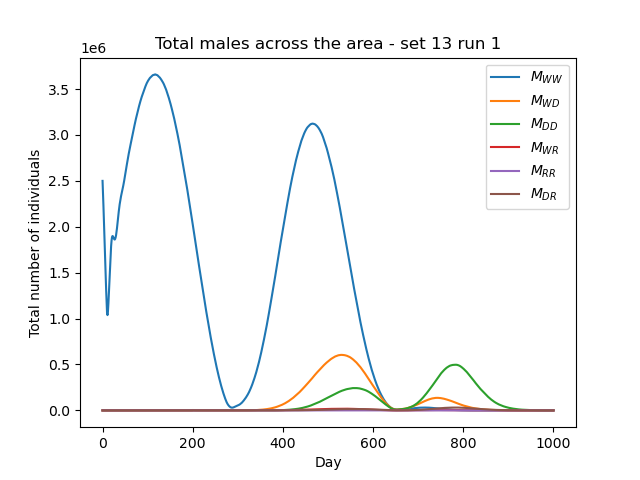
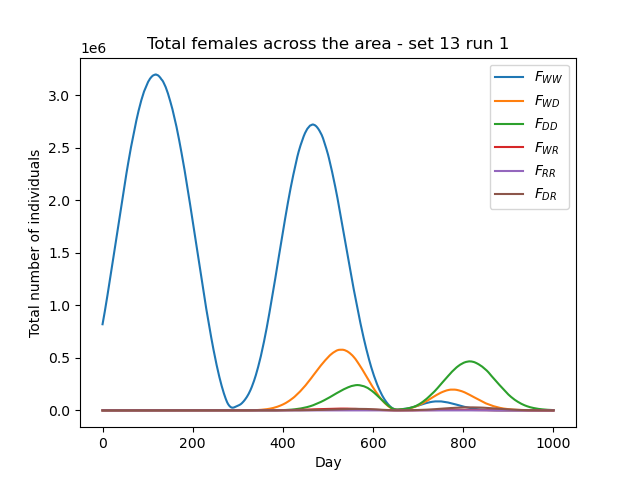
Update docs and plotting script with change to females
For change of males to mated females in local and total output files. Updated plots animations, output file screenshots and any reference to males in output files in docs

diff --git a/test/GeneralMetapopPlots.py b/test/GeneralMetapopPlots.py
@@ -5,23 +5,24 @@ import matplotlib.animation as animation
 import matplotlib.colors as mcolors
 
 #%% Plot global output (totals) from model
-os.chdir("C:\\Users\\biol0117\\OneDrive - Nexus365\\Documents\\Programming projects\\C++ Model\\GeneralMetapop\\test\\oracle\\toroid_distance_kernel\\set2")
+#os.chdir("C:\\Users\\biol0117\\OneDrive - Nexus365\\Documents\\Programming projects\\C++ Model\\GeneralMetapop\\build\\output_files\\")
+os.chdir("C:\\Users\\biol0117\\OneDrive - Nexus365\\Documents\\Programming projects\\C++ Model\\GeneralMetapop\\test\\oracle\\toroid_distance_kernel\\set13\\")
 
-totals = np.loadtxt("Totals2run1.txt", skiprows=2, ndmin=2)
+totals = np.loadtxt("Totals13run1.txt", skiprows=2, ndmin=2)
 
 times = totals[:, 0]
-total_males = totals[:, 1:]
+total_females = totals[:, 1:]
 
 plt.figure()
-plt.title("Total males across the area - set 17 run 1")
+plt.title("Total females across the area - set 13 run 1")
 plt.xlabel("Day")
 plt.ylabel("Total number of individuals")
-plt.plot(times, total_males[:, 0], label="$M_{WW}$")
-plt.plot(times, total_males[:, 1], label="$M_{WD}$")
-plt.plot(times, total_males[:, 2], label="$M_{DD}$")
-plt.plot(times, total_males[:, 3], label="$M_{WR}$")
-plt.plot(times, total_males[:, 4], label="$M_{RR}$")
-plt.plot(times, total_males[:, 5], label="$M_{DR}$")
+plt.plot(times, total_females[:, 0], label="$F_{WW}$")
+plt.plot(times, total_females[:, 1], label="$F_{WD}$")
+plt.plot(times, total_females[:, 2], label="$F_{DD}$")
+plt.plot(times, total_females[:, 3], label="$F_{WR}$")
+plt.plot(times, total_females[:, 4], label="$F_{RR}$")
+plt.plot(times, total_females[:, 5], label="$F_{DR}$")
 plt.legend()
 
 #%% Plot coordinates of patches
@@ -83,13 +84,13 @@ ax.set_ylabel("y (km)")
 fig, ax = plt.subplots()
 
 # get coords of sites
-os.chdir("C:\\Users\\biol0117\\OneDrive - Nexus365\\Documents\\Programming projects\\C++ Model\\GeneralMetapop\\test\\oracle\\toroid_distance_kernel\\set2")
-coords = np.loadtxt("CoordinateList2run1.txt", skiprows=2, ndmin=2)
+os.chdir("C:\\Users\\biol0117\\OneDrive - Nexus365\\Documents\\Programming projects\\C++ Model\\GeneralMetapop\\build\\output_files")
+coords = np.loadtxt("CoordinateList100run1.txt", skiprows=2, ndmin=2)
 x = coords[:, 1]
 y = coords[:, 2]
 
 # get populations
-local_data = np.loadtxt("LocalData2run1.txt", skiprows=2, ndmin=2)
+local_data = np.loadtxt("LocalData100run1.txt", skiprows=2, ndmin=2)
 
 # get populations on one day
 t=0 # recorded timestep
@@ -196,12 +197,12 @@ fig, ax = plt.subplots()
 # get coords of sites
 os.chdir("C:\\Users\\biol0117\\OneDrive - Nexus365\\Documents\\Programming projects\\C++ Model\\GeneralMetapop\\build\\output_files")
 #os.chdir("C:\\Users\\biol0117\\OneDrive - Nexus365\\Documents\\Programming projects\\C++ Model\\GeneralMetapop\\test\\oracle\\toroid_distance_kernel\\set10")
-coords = np.loadtxt("CoordinateList1run1.txt", skiprows=2, ndmin=2)
+coords = np.loadtxt("CoordinateList101run1.txt", skiprows=2, ndmin=2)
 x = coords[:, 1]
 y = coords[:, 2]
 
 # get populations per genotype
-local_data = np.loadtxt("LocalData1run1.txt", skiprows=2, ndmin=2)
+local_data = np.loadtxt("LocalData101run1.txt", skiprows=2, ndmin=2)
 t=0 # recorded timestep
 sim_day = int(local_data[t*len(x), 0])
 local_data_day0 = local_data[t*len(x):((t+1)*len(x)), 2:8]

diff --git a/docs/user_guide/output.rst b/docs/user_guide/output.rst
@@ -30,13 +30,15 @@ The second and third columns contain the `x` and `y` coordinates respectively.
 Totals file
 -----------
 
-The totals file records the total number of adult male mosquitoes over all sites for each day of the simulation. These are divided into the different genotypes available. By default, the program uses 6 genotypes (more information in the :doc:`defaults` section).
+The totals file records the total number of adult mated female mosquitoes over all sites for each day of the simulation. These are divided into the different female genotypes available. By default, the program uses 6 genotypes (more information in the :doc:`defaults` section).
 
-The first column denotes the simulation day, where day 0 is the initialisation day. The following columns denote the number of males of each genotype, where W is a wild-type allele, D is a drive-type allele and R is a non-functional resistance allele. 
+The first column denotes the simulation day, where day 0 is the initialisation day. The following columns denote the number of females of each genotype, where W is a wild-type allele, D is a drive-type allele and R is a non-functional resistance allele. 
 
 .. note::
-    During the initialisation day, sites are populated with some initial populations and gene drive mosquitoes may be released, but mosquitoes don't carry out their life processes or disperse. This is to set a baseline for the model. Mosquito numbers are always recorded as the very last step of the simulation day.
+    During the initialisation day, sites are populated with some initial populations and mosquitoes don't carry out their life processes or disperse. This is to set a baseline for the model. Mosquito numbers are always recorded as the very last step of the simulation day.
 
+.. note::
+    The model will simulate a burn-in period of 365 days before recording any data so that the modelled mosquito populations can reach an equilibrium before other modelled behaviours, such as gene drive release, are introduced. This is all done implicitly before recording starts. 
 
 .. image:: ../images/output_totals.png
     :scale: 80 %
@@ -46,9 +48,9 @@ The first column denotes the simulation day, where day 0 is the initialisation d
 Local data file
 ---------------
 
-Similarly to the totals file, the local data file records the number of adult male mosquitoes for each day of the simulation, but this is split by each site. This provides a more in-depth view of the population evolution at each site. The male population numbers are also divided by genotype. 
+Similarly to the totals file, the local data file records the number of adult mated female mosquitoes for each day of the simulation, but this is split by each site. This provides a more in-depth view of the population evolution at each site. The female population numbers are also divided by genotype. 
 
-The first column again denotes the simulation day, the second column denotes the site index (as seen in :ref:`coords_output_file`) and the following columns denote the number of males of each genotype (as seen in :ref:`totals_file`).
+The first column again denotes the simulation day, the second column denotes the site index (as seen in :ref:`coords_output_file`) and the following columns denote the number of females of each genotype (as seen in :ref:`totals_file`).
 
 .. image:: ../images/output_local.png
     :scale: 80 %

diff --git a/docs/tutorials/tutorial1.rst b/docs/tutorials/tutorial1.rst
@@ -48,8 +48,8 @@ Looking at the output data
 The program run will have created a new subdirectory in our ``build`` directory called ``output_files``. This contains all the output files generated by the program. There are text files of three types:
 
 - ``CoordinateList.txt``: contains the (x, y) coordinates of all the patches in the simulation (in our set 1 we used ``num_pat`` = 50).
-- ``Totals.txt``: contains the total adult male mosquito numbers across all patches as simulation time passes. These are divided into the different genotypes available (more information on genotypes in Tutorial :ref:`tutorial-3.2`).
-- ``LocalData.txt``: contains the adult male mosquito numbers, divided by genotype, at each patch over time.
+- ``Totals.txt``: contains the total adult mated female mosquito numbers across all patches as simulation time passes. These are divided into the different genotypes available (more information on genotypes in Tutorial :ref:`tutorial-3.2`).
+- ``LocalData.txt``: contains the adult mated female mosquito numbers, divided by genotype, at each patch over time.
 
 The program will generate a set of these files for each repetition (also called run).
 
@@ -102,11 +102,14 @@ This script will generate the following plot:
 
 Now we can see the spatial distribution of the patches!
 
+.. note::
+    Plots may look slightly different on different systems due to differences in random number generation in the model between systems. Output data for these tutorials has been generated on a Windows 10 with g++ compiler v13.1.0.
 
-Plotting total males over time
-^^^^^^^^^^^^^^^^^^^^^^^^^^^^^^
 
-The following code will plot the total adult male mosquito numbers for the first run of set 1.
+Plotting total females over time
+^^^^^^^^^^^^^^^^^^^^^^^^^^^^^^^^
+
+The following code will plot the total adult mated female mosquito numbers for the first run of set 1.
 We can plot several lines corresponding to the different genotypes so we can observe the changes in genotypic composition over time. 
 
 .. code-block:: python
@@ -118,18 +121,18 @@ We can plot several lines corresponding to the different genotypes so we can obs
     # extract data from the file
     totals = np.loadtxt("Totals1run1.txt", skiprows=2)
     times = totals[:, 0]
-    total_males = totals[:, 1:]
+    total_females = totals[:, 1:]
 
     plt.figure()
-    plt.title("Total males across the area")
+    plt.title("Total mated females across the area")
     plt.xlabel("Day")
     plt.ylabel("Total number of individuals")
-    plt.plot(times, total_males[:, 0], label="$M_{WW}$")
-    plt.plot(times, total_males[:, 1], label="$M_{WD}$")
-    plt.plot(times, total_males[:, 2], label="$M_{DD}$")
-    plt.plot(times, total_males[:, 3], label="$M_{WR}$")
-    plt.plot(times, total_males[:, 4], label="$M_{RR}$")
-    plt.plot(times, total_males[:, 5], label="$M_{DR}$")
+    plt.plot(times, total_females[:, 0], label="$F_{WW}$")
+    plt.plot(times, total_females[:, 1], label="$F_{WD}$")
+    plt.plot(times, total_females[:, 2], label="$F_{DD}$")
+    plt.plot(times, total_females[:, 3], label="$F_{WR}$")
+    plt.plot(times, total_females[:, 4], label="$F_{RR}$")
+    plt.plot(times, total_females[:, 5], label="$F_{DR}$")
 
 
 As before, make sure to skip the first two rows of the table.

diff --git a/docs/tutorials/tutorial3.rst b/docs/tutorials/tutorial3.rst
@@ -156,7 +156,7 @@ The drive allele (D) frequency is calculated relative to all available genotypes
 
     \text{drive allele freq.} = \frac{\mathrm{WD} + 2(\mathrm{DD}) + \mathrm{DR}}{2(\mathrm{TOT})}
 
-with :math:`\textrm{TOT} = \textrm{WW} + \textrm{WD} + \textrm{DD} + \textrm{WR} + \textrm{RR} + \textrm{DR}`. Each genotype in the equation represents the total number of males of that genotype in the overall area.
+with :math:`\textrm{TOT} = \textrm{WW} + \textrm{WD} + \textrm{DD} + \textrm{WR} + \textrm{RR} + \textrm{DR}`. Each genotype in the equation represents the total number of mated females of that genotype in the overall area.
 
 To make this animation, you can either use the script cell ``GeneralMetapopPlots.py - 'Spatial animation of gene drive allele frequency'`` found in the ``test`` directory, or follow along in editing the animation script from Tutorial :ref:`tutorial-2.2`. If you're using the script directly, you can skip to the animation image. 
 
@@ -181,7 +181,7 @@ To modify our previous animation script, we can substitute some of the sections 
             if (tot == 0):
                 drive_freq[pat] = -2 # assign different distinguishable value for no-population patches
             elif (tot == WW[pat]):
-                drive_freq[pat] = -0.5 #assign different distinguishable value for fully wild-population patches
+                drive_freq[pat] = -0.5 # assign different distinguishable value for fully wild-population patches
             else:
                 drive_freq[pat] = (WD_day0[pat] + (2*DD_day0[pat]) + DR_day0[pat]) / (2*tot)
 

diff --git a/docs/tutorials/tutorial7.rst b/docs/tutorials/tutorial7.rst
@@ -161,7 +161,7 @@ Finally, enter the filepath and proceed to run the program. Remember again that 
 
 .. image:: ../images/tut7_confirm.png
 
-If we plot the total adult males again, we can observe that the fluctuations are more irregular than before, since our custom rainfall values don't follow a perfect sinusoid pattern. 
+If we plot the total adult mated females again, we can observe that the fluctuations are more irregular than before, since our custom rainfall values don't follow a perfect sinusoid pattern. 
 
 .. image:: ../images/tut7_totals_plot_set15.png
     :scale: 80 %

diff --git a/docs/tutorials/tutorial6.rst b/docs/tutorials/tutorial6.rst
@@ -48,7 +48,7 @@ With this, we're ready to run. From the output files we can create another anima
 .. image:: ../images/tut6_anim_radial.gif
     :scale: 90 %
 
-Let's compare this animation to the one from Tutorial :ref:`tutorial-4.1`. We can see that in this case the gene drive will spread much quicker with the radial dispersal. 
+Let's compare this animation to the one from Tutorial :ref:`tutorial-4.1`. We can see that in this case the gene drive will spread quicker with the radial dispersal. 
 
 .. note::
 

diff --git a/docs/tutorials/tutorial5.rst b/docs/tutorials/tutorial5.rst
@@ -78,7 +78,7 @@ Once we create this file and enter the filepath, all that's left to do is run th
 .. image:: ../images/tut5_confirm.png
 
 And with this, we have effectively run the pre-defined set 17! 
-We can look at the totals plot and see for ourselves the spikes at each release time:
+We can look at the totals plot and see the subtle bumps in drive heterozygous female numbers at each release time:
 
 .. image:: ../images/tut5_totals_plot.png
     :scale: 80 %
